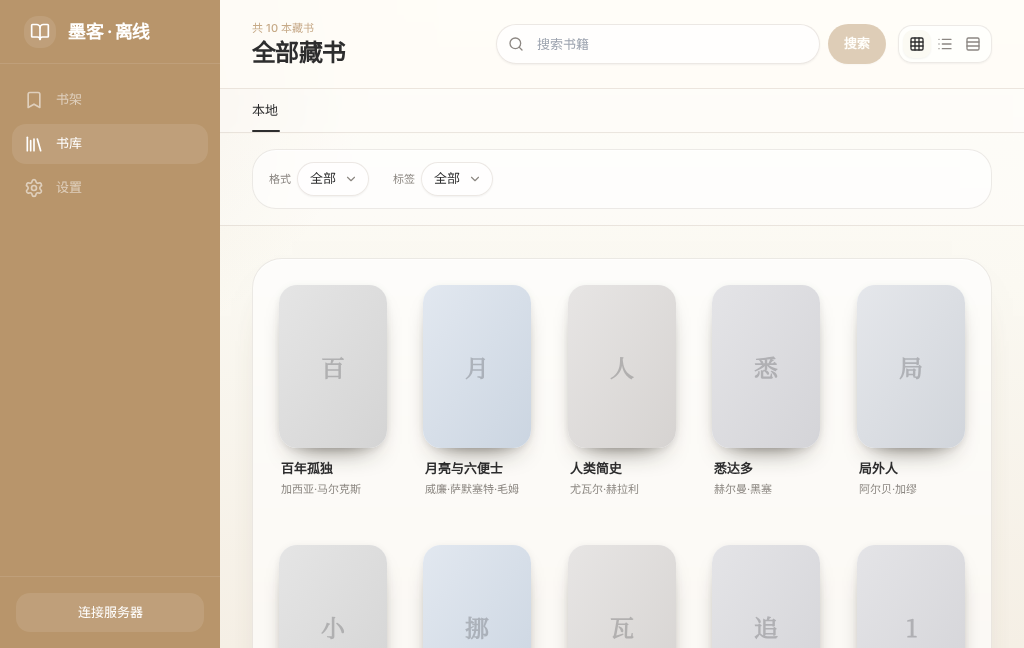
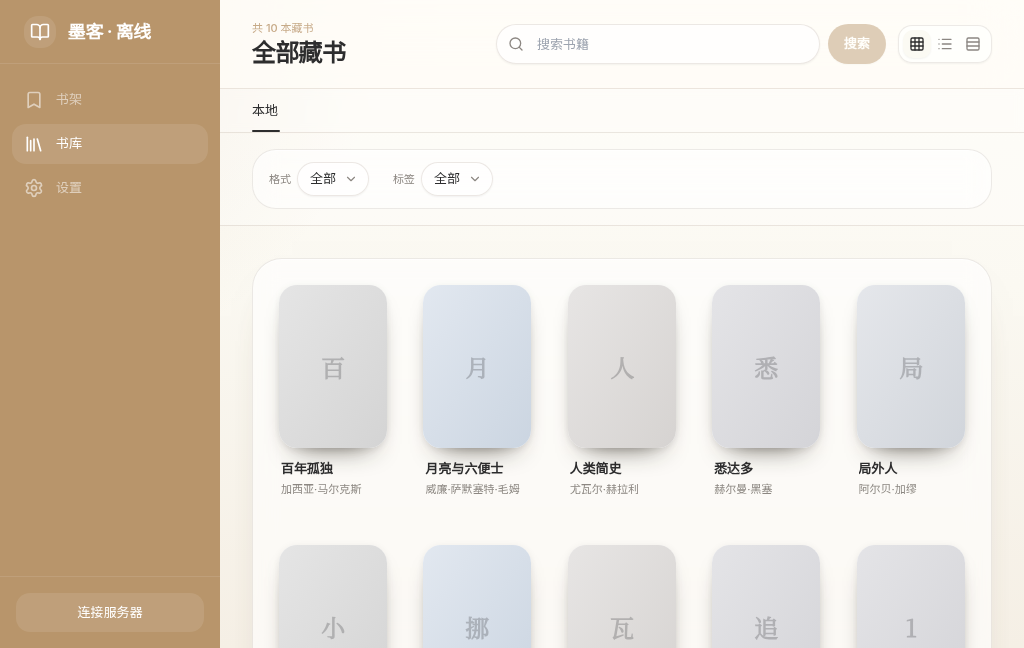
expand documentation screenshots

diff --git a/site/docs/.vitepress/theme/style.css b/site/docs/.vitepress/theme/style.css
@@ -45,3 +45,7 @@
   font-size: 13px;
   text-align: center;
 }
+
+.vp-doc img[src*="-mobile.png"] {
+  max-width: 390px;
+}

diff --git a/site/docs/guide/interface.md b/site/docs/guide/interface.md
@@ -2,7 +2,7 @@
 
 墨客会根据设备尺寸显示桌面、平板或手机布局，但核心入口保持一致。
 
-![墨客桌面端主界面](/screenshots/moke-interface.png)
+![墨客桌面端主界面](/screenshots/moke-shelf-desktop.png)
 
 *桌面端主界面：侧边栏、书架与应用内容区。*
 
@@ -17,6 +17,10 @@
 | 我的 | 登录后查看个人资料、阅读记录、下载记录等信息 |
 
 桌面端使用侧边栏导航；手机和平板使用底部标签栏。切换布局不会改变服务器或离线书籍数据。
+
+![墨客手机端书架界面](/screenshots/moke-shelf-mobile.png)
+
+*手机端会使用适合触控的双列书架与底部标签栏，而不是压缩桌面界面。*
 
 ## 书籍操作
 

diff --git a/site/docs/guide/library.md b/site/docs/guide/library.md
@@ -25,6 +25,10 @@
 
 详情页会列出可用文件格式，并把“在线阅读”和“下载后阅读”分开显示。
 
+![墨客书籍详情界面](/screenshots/moke-detail.png)
+
+*离线书籍详情：可确认书籍信息、离线状态，并管理书架收藏。*
+
 ## 服务器书架与离线书架
 
 在线状态下的书架来自 Talebook 账号；离线模式中的书架来自当前设备。二者可能包含不同数量的书。

diff --git a/site/docs/guide/offline-reading.md b/site/docs/guide/offline-reading.md
@@ -8,6 +8,10 @@
 
 “设置 → 下载管理”可以按全部、下载中、已下载、暂停和失败筛选任务，并执行暂停、继续、重试或删除。
 
+![墨客下载管理界面](/screenshots/moke-downloads.png)
+
+*下载管理：集中查看本机离线书籍、任务状态和占用空间。*
+
 关闭应用或网络中断后，未完成任务可能需要在下载管理中继续。
 
 ## 进入离线模式

diff --git a/site/docs/guide/connect-talebook.md b/site/docs/guide/connect-talebook.md
@@ -22,6 +22,10 @@ http://192.168.1.100:8080
 
 这些规则由 Talebook 服务端决定，墨客不会绕过访问限制。
 
+![墨客访问码界面](/screenshots/moke-access-code.png)
+
+*服务器启用私人图书馆后，需要先通过访问码验证。*
+
 ## 试用演示书库
 
 连接页提供演示地址 `https://demo.talebook.org` 的复制按钮。演示服务只适合体验，不应保存私人数据。

diff --git a/site/docs/guide/about.md b/site/docs/guide/about.md
@@ -2,6 +2,10 @@
 
 墨客（Moke）是 [Talebook](https://github.com/talebook/talebook) 的免费开源跨平台客户端。它不提供商业书城，也不会把你的藏书迁移到第三方平台。
 
+![墨客关于应用界面](/screenshots/moke-about.png)
+
+*关于应用：查看当前版本、项目定位与后续规划。*
+
 ## 三个项目如何配合
 
 ```text

diff --git a/site/docs/guide/getting-started.md b/site/docs/guide/getting-started.md
@@ -2,6 +2,10 @@
 
 完成安装、连接和第一次阅读通常只需要几分钟。
 
+![墨客连接书库界面](/screenshots/moke-welcome.png)
+
+*首次打开墨客：连接自己的 Talebook，也可以直接使用已下载内容进入离线模式。*
+
 ## 开始前检查
 
 - 已有一个可以访问的 Talebook 服务
